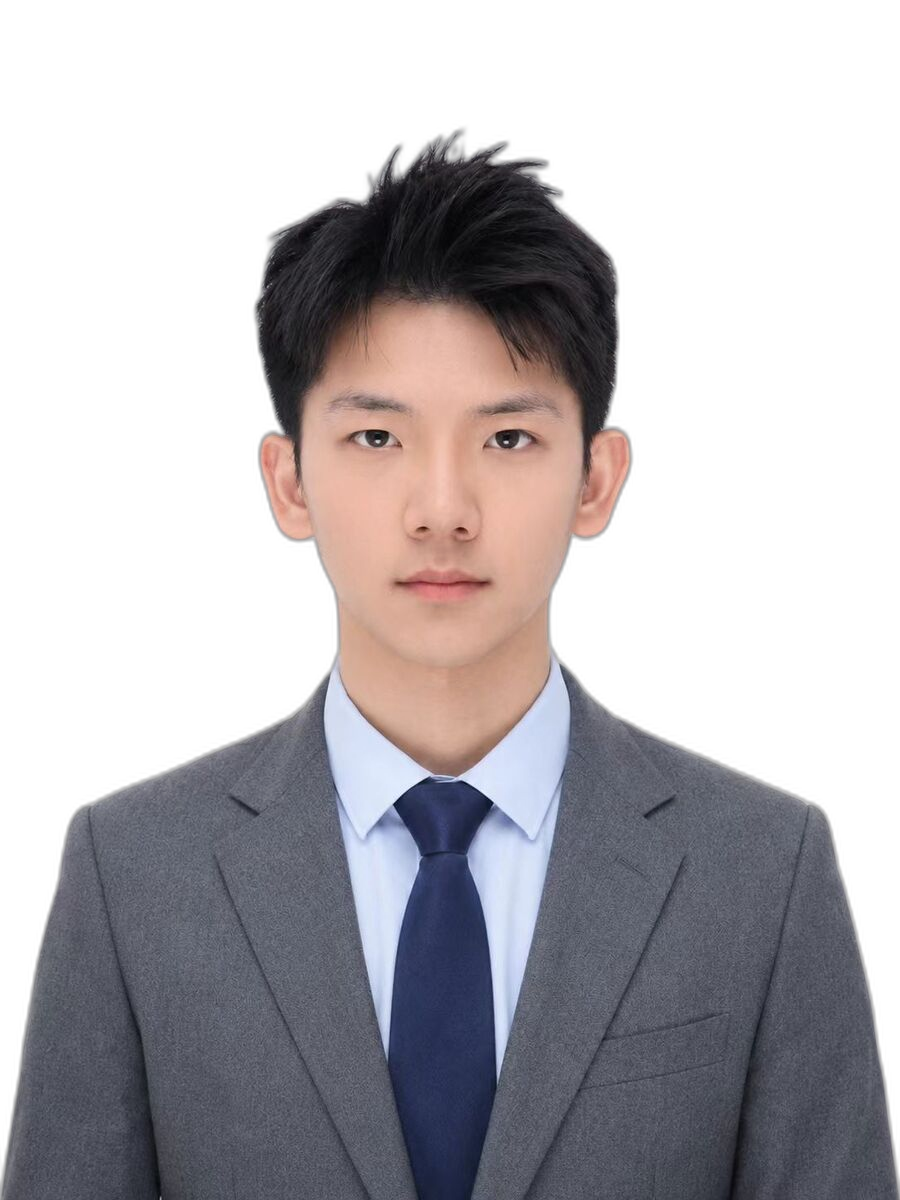
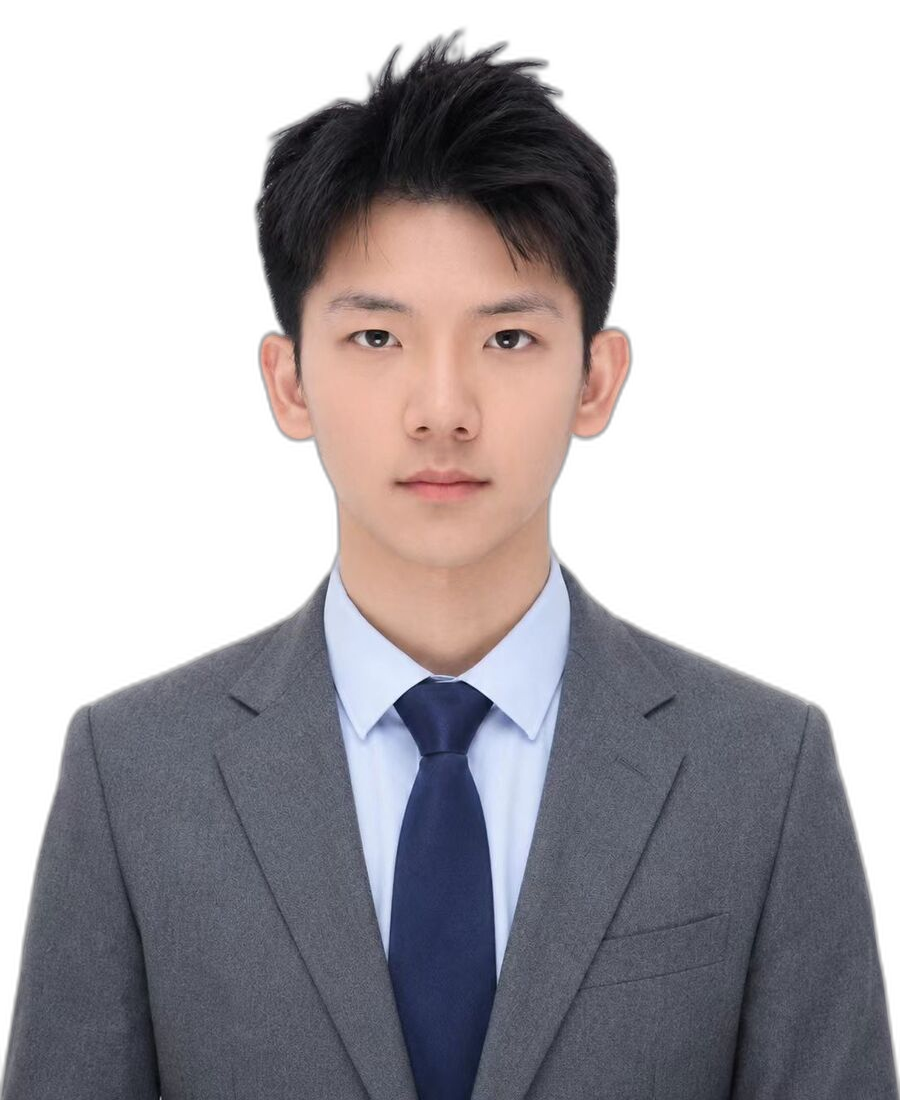
fix: crop cutout top transparent, photo width 220px

diff --git a/assets/style.css b/assets/style.css
@@ -79,7 +79,7 @@ main { max-width: var(--max-width); margin: 0 auto; padding: 0 28px; }
 .wc-10 { bottom: 0%; left: 44%; font-size: 22px; color: rgba(0,0,0,0.09); }
 .wc-11 { top: 64%; left: 16%; font-size: 20px; color: rgba(0,113,227,0.12); }
 .wc-12 { top: 66%; right: 14%; font-size: 20px; color: rgba(0,0,0,0.08); }
-.hero-photo-cutout { position: relative; z-index: 1; width: 240px; display: flex; align-items: flex-end; justify-content: center; }
+.hero-photo-cutout { position: relative; z-index: 1; width: 220px; }
 .hero-photo-cutout img { width: 100%; height: auto; display: block; filter: drop-shadow(0 12px 32px rgba(0,0,0,0.12)); }
 .hero-name { position: relative; z-index: 2; font-size: 32px; font-weight: 700; letter-spacing: -0.02em; margin-top: 8px; }
 .hero-name span { font-size: 18px; font-weight: 400; color: var(--fg-secondary); margin-left: 8px; }
